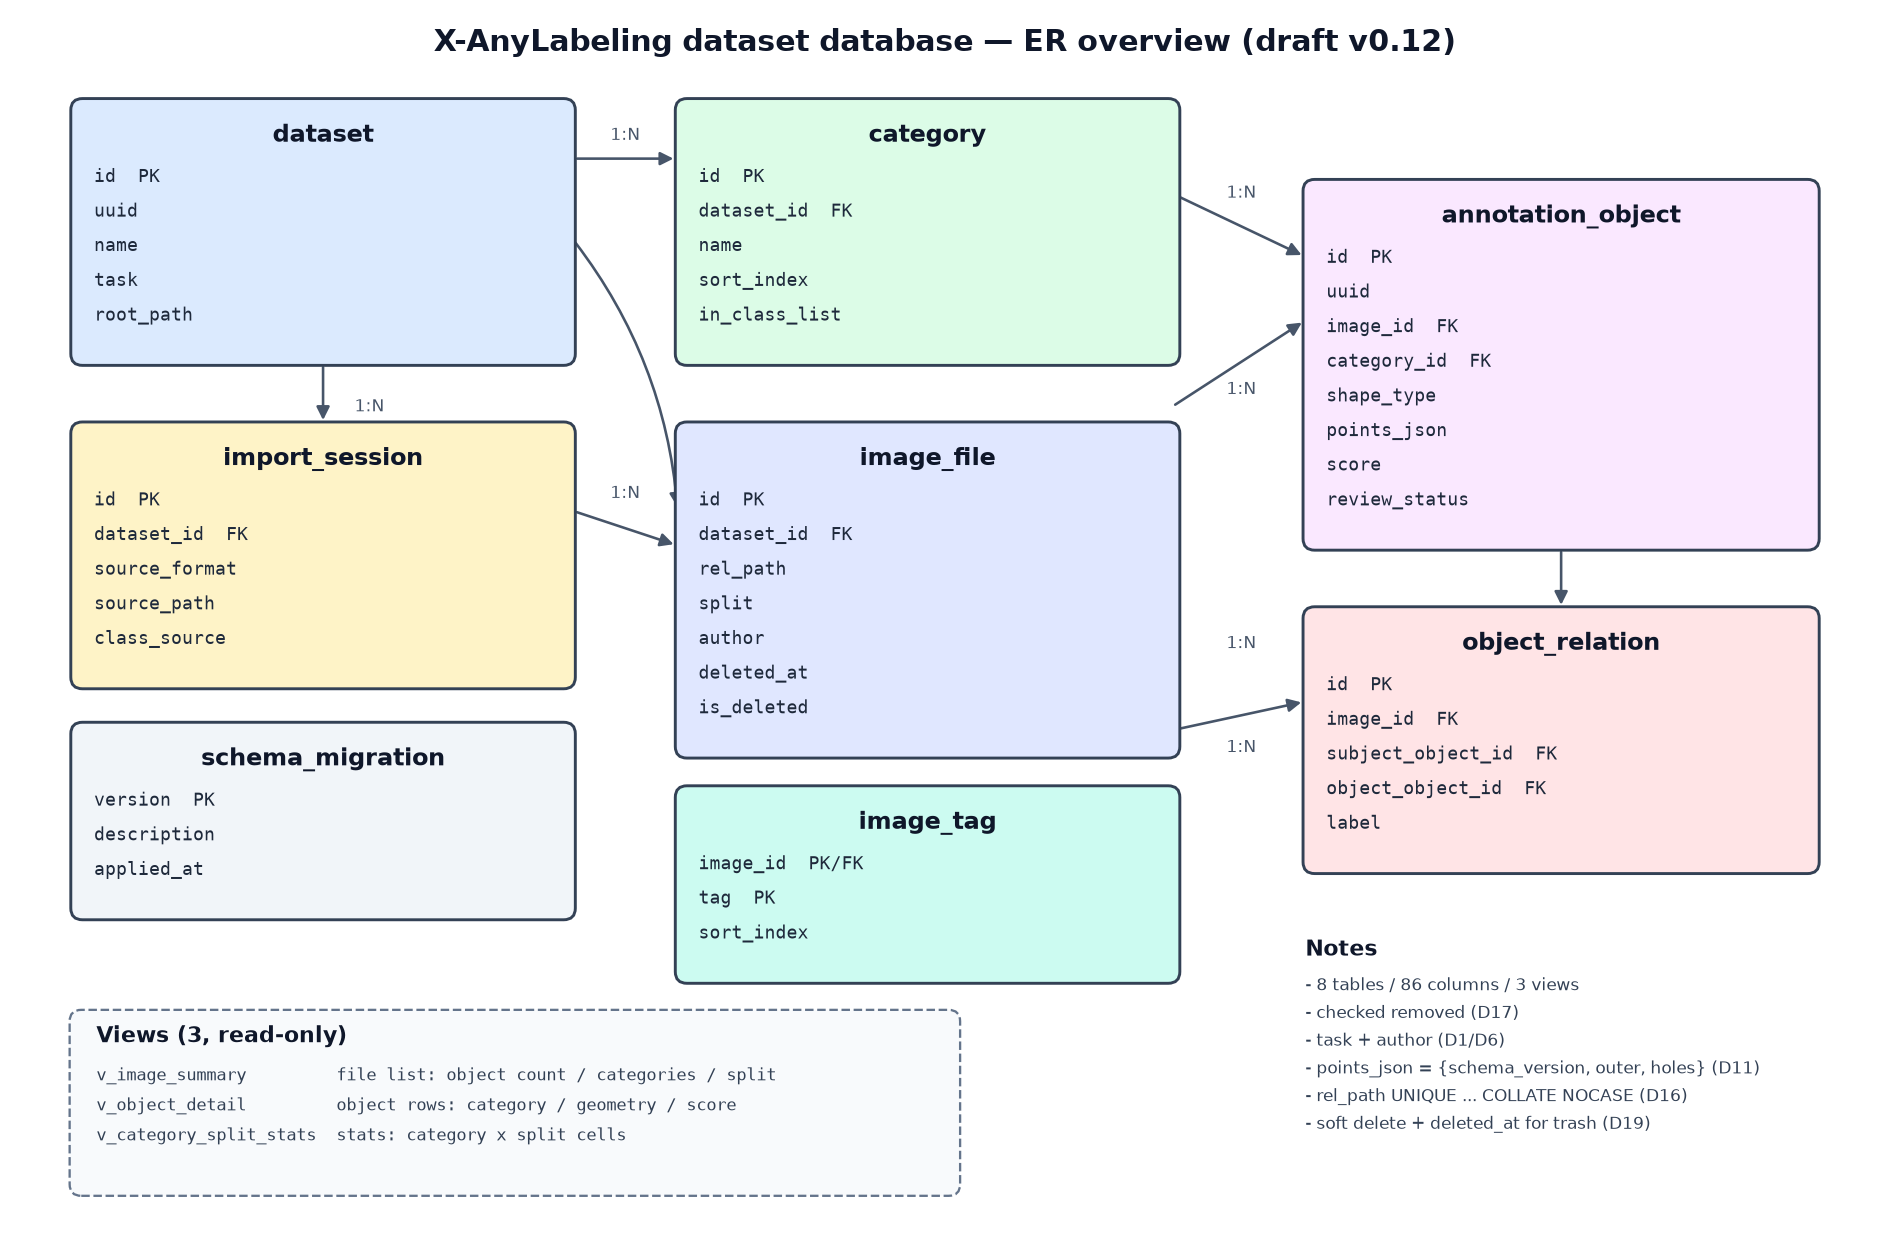
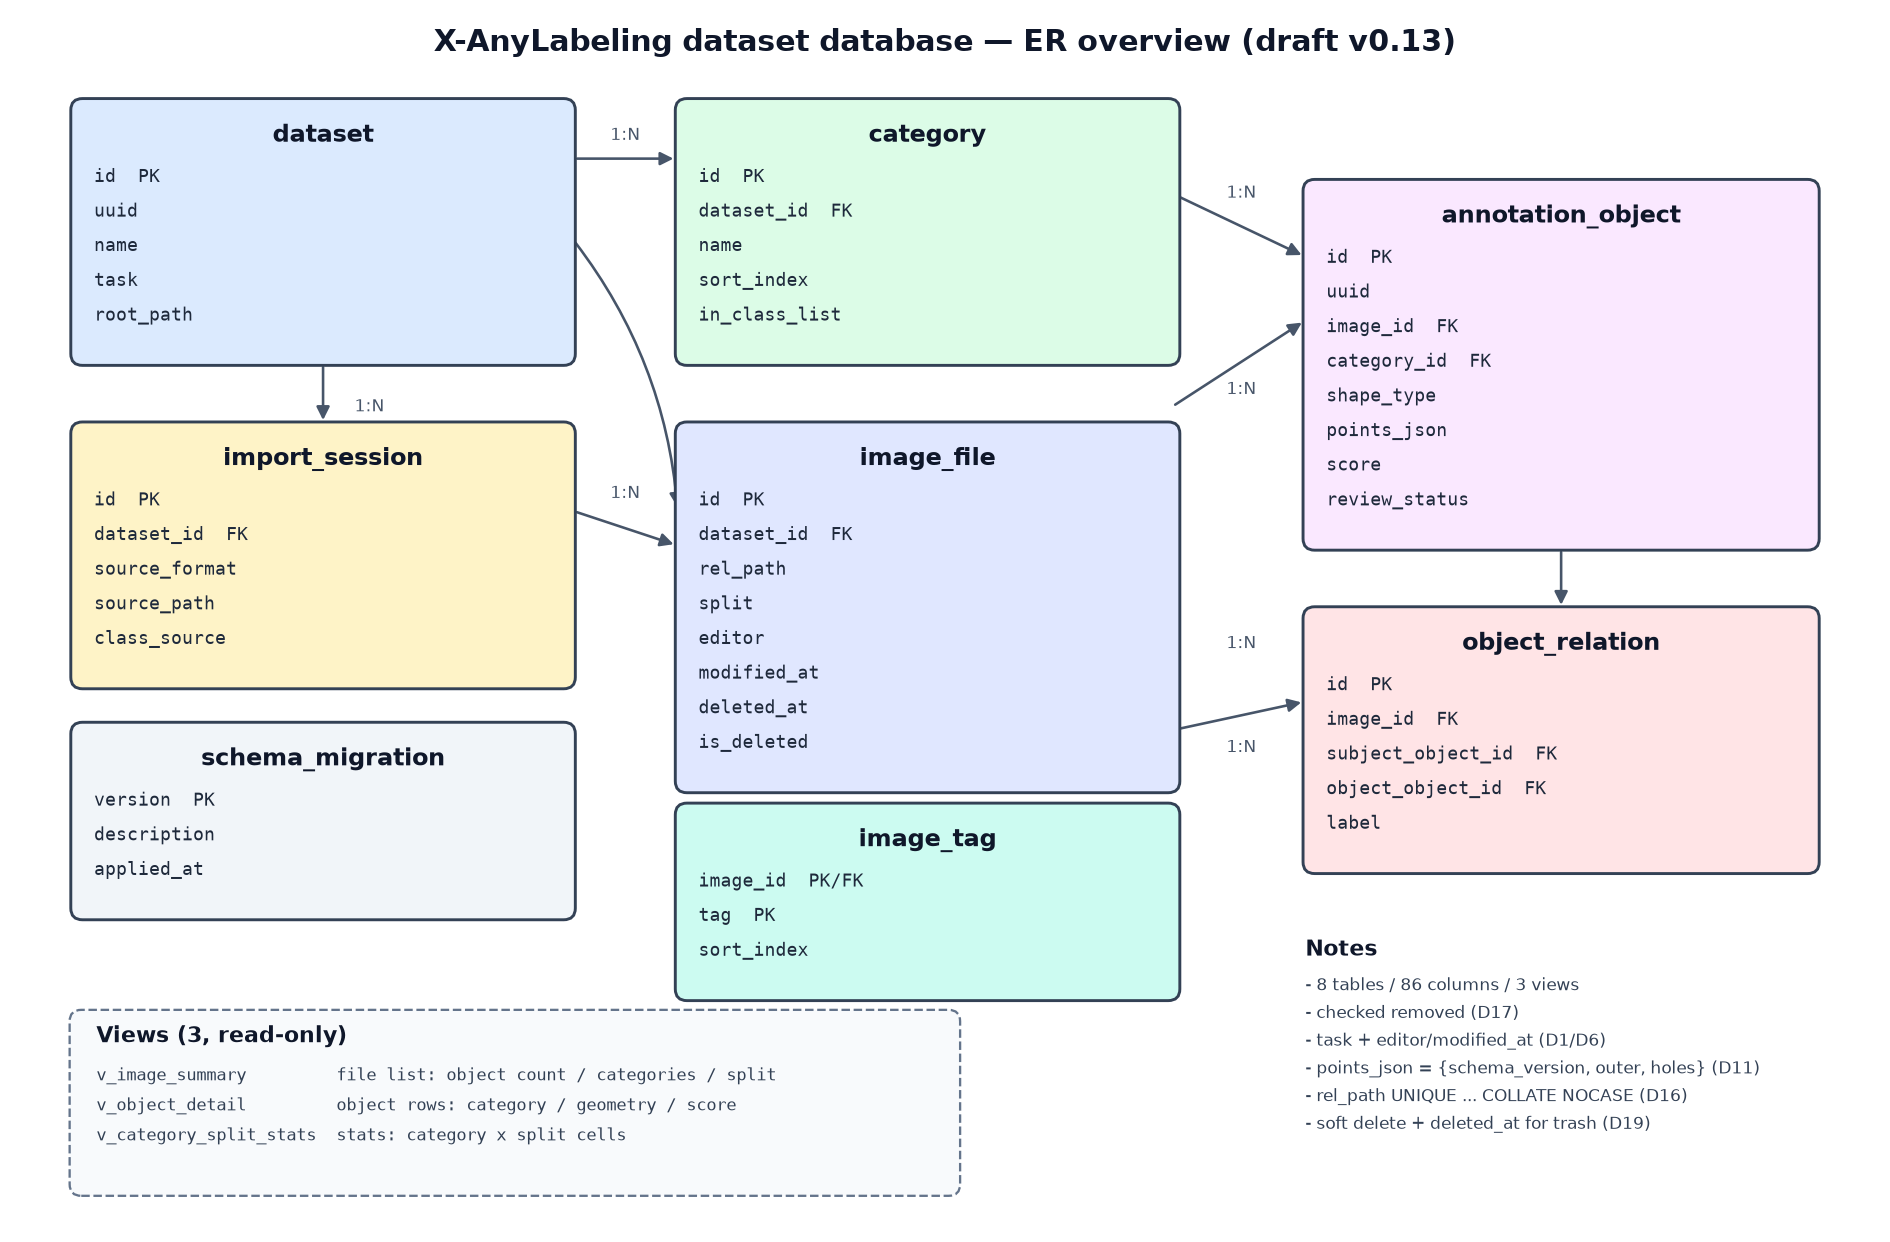
docs(数据库设计): v0.13 归属列统一为 editor/modified_at
背景与原因：
- T6 写的是 editor/last_operator，D6 写的是 author/author_modified_at，同一件事
  三套名字。统一为 editor/modified_at：editor 更准确（最后编辑者，不是作者），
  也与设计书 §3.3/§3.4 的术语一致；modified_at 与 JSON 同名。
- 明确分工：updated_at 只做行级最后写入；modified_at 仅在标注内容/flags/tags/
  description/relations 变化时更新（与 JSON 契约一致）。JSON author → DB editor。

主要修改：
- 文档：D6、§5.3、§12A.3、§13.2、§15.3-B8、§15.4 同步；变更记录补 v0.13；
  §5.3 注明 JSON author 与 DB editor 的映射。
- 开始.md：T6 改为 editor/modified_at，核对 JSON author 与 DB editor 一致；
  §12A 的“一期如需冗余”同步为 editor/modified_at。
- schema.sql：image_file.author → editor，author_modified_at → modified_at；
  D6 注释与 v0.13 头同步。
- demo.db：ALTER TABLE RENAME COLUMN 两列，WAL 已 checkpoint 落盘。
- queries.sql：f.author → f.editor，回收站列表改 editor。
- report.txt：重新生成，列清单与 checks 改为 editor/modified_at。
- db_er_overview.png：按 v0.13 重绘（image_file 显示 editor/modified_at）。

行为、接口与兼容性影响：
- 仅文档与演示资产；不改应用代码、不升 fork 版本、不推送。
- 这是列名改名，不改列数/类型/语义；JSON 契约仍是 author/modified_at。

验证：
- report.txt：8 表 86 列 3 视图；image_file 无 author/author_modified_at；
  editor/modified_at 均在；integrity_check=ok；queries.sql 38/38 通过。
- schema.sql 与 demo.db 列清单逐表一致；D1–D19 / B1–B8 编号连续；
  §15.2 无 Q 行；Markdown 表格列数一致。

已知项：
- demo.db-wal/-shm 为 0 字节且被外部进程占用，未提交；
  demo.db 主文件已 checkpoint，列名已是 editor/modified_at。

Changed region(s): [[0.3434, 0.5201, 0.6243, 0.8261], [0.7492, 0.8261, 0.8429, 0.8567]]

diff --git a/docs/开始.md b/docs/开始.md
@@ -134,7 +134,7 @@
 | T3 | 数据库改造实施与提交：确认计划后分阶段改代码；落地属"用户可观察行为/存储契约变化"，同批升一次 fork 版本并更新 `CHANGELOG-fork.md`、结构报告，验证后 push | 讨论稿 §13/§14 | 代码落地、验证通过、提交并推送 | 待办 |
 | T4 | 训练/评估导出（插件化）：导出功能与任务范围归训练/评估模块，以插件/适配器实现，从数据库读取数据后写出目标框架数据集（不经 JSON 中间文件）；一期 Ultralytics det/seg/obb/pose，其他框架后续扩展 | 讨论稿原第 17 条迁出；契约见讨论稿 §11 | 训练对话框可导出并启动训练；其他框架可按适配器接入 | 待办 |
 | T5 | 项目文件与双击打开：打开文件夹时若没有数据库则自动创建数据库；若没有项目文件则自动创建项目文件；双击项目文件直接打开本软件并加载项目（类似 VS 打开 `.sln`）。**项目文件扩展名已定：`.xalp`**（`.flc` 与 FLIC 动画冲突、`.flp` 与 FL Studio 工程冲突，均不采用）；内容为 JSON 清单（`format_version`/`project_uuid`/`name`/`database` 相对路径/`app_version`/时间戳） | 用户 2026-11-11 需求；扩展名于 2026-11-18 确认；讨论稿 §3 有说明 | 双击 `.xalp` 可打开软件与项目；文件关联可安装/可便携 | 待办 |
-| T6 | 项目数据库接入操作员归属：T3 实施时按讨论稿 §12A 与设计书 §3.4 增加 `editor`/`last_operator` 字段与迁移规则，并核对 JSON `author` 与数据库值一致 | fork.4 归属契约；讨论稿 §12A | schema、迁移、导入契约落地且与 JSON 契约一致 | 待办 |
+| T6 | 项目数据库接入操作员归属：T3 实施时按讨论稿 §12A 与设计书 §3.4 增加 `editor`/`modified_at` 字段与迁移规则，并核对 JSON `author` 与数据库 `editor` 一致 | fork.4 归属契约；讨论稿 §12A | schema、迁移、导入契约落地且与 JSON 契约一致 | 待办 |
 | T7 | 无边框窗口模块实现：按 `docs/dev/无边框窗口模块-讨论稿.md` 的 API 草案实现可复用模块并接入 `MainWindow` | 用户 2026-11-18 需求；讨论稿 v0.4 | 模块可被其他项目复用；本项目窗口 chrome 回归通过；保留启动时原生边框回退 | **已完成（2026-11-18）**：`anylabeling/widgets/frameless/`（8 模块）+ `examples/frameless_demo.py`；`MainWindow` 接入、菜单嵌入/显隐、F11 全屏、`frameless` 启动配置与原生回退；落在 fork.7（`4.3.2+fork.7`）。fork.8 修复 `nativeEvent` 启动崩溃并补回归用例；Windows 实机交互仍待用户验证 |
 | T8 | `label_widget.py` 上帝类拆分：现为约 9500 行、单一 `LabelingWidget` 类，混合窗口装配、动作定义、标注编辑、文件列表、自动标注编排、归属守卫、设置/工具栏等职责；需按职责拆为可独立测试的服务类与控件类（如动作注册、标注数据编排、文件列表/筛选、自动标注交接、算子门禁、工具栏策略），对外行为与快捷键保持不变 | 用户 2026-11-19 提出；结构报告 §5 与"维护重点"多次记录该类为高风险集中点 | 分阶段完成：①先抽出无 UI 依赖的服务（动作表/门禁/工具栏偏好），②再抽文件列表与自动标注交接，③最后瘦身主类；每阶段独立可测、`label_widget.py` 行数与单类职责显著下降，且全套标注功能回归通过 | **已完成（2026-11-19，两个阶段）**：`label_widget.py` 9507 → 1782 行（约 -81%），`LabelingWidget` 9118 → 1703 行、`__init__` 2816 → 238 行；第一阶段拆出 `actions/`（动作表+菜单）、`file_list/`（表格+控制器）、`operator/gate.py`、`auto_labeling_handoff.py`、`widgets/workspace.py`、`widgets/splitters.py`、`utils/label_text.py`、`constants.py`；第二阶段拆出 `annotation_editor.py`、`file_session.py`、`object_editor.py`、`canvas_navigation.py`、`actions/toolbar.py`、`widgets/attributes_panel.py`、`status.py`、`appearance.py`、`label_filters.py`、`shape_commands.py`、`draw_modes.py`、`special_workspaces.py`、`label_loop.py`、`relations.py`、`right_sidebar.py`；对外行为与快捷键不变，属纯内部重构不升 fork 版本（详见 `CHANGELOG-fork.md` fork.19 §7/§8、结构报告 §5.11）。上帝类判定已按用户 2026-11-19 口径收敛：除 `Canvas`（约 6300 行/216 方法）外，1000–2000 行级类不再算上帝类；`label_widget.py` 拆分任务本身至此完成，`Canvas` 拆分未获授权、未登记为待办 |
 
@@ -143,7 +143,7 @@
 
 1. XLABEL JSON 顶层新增可选字段 `author`（操作员名称，或 `"none"` 表示未记录）与 `modified_at`（本机 ISO 8601，含 UTC 偏移）。仅当标注内容、flags、tags、description、relations 实质变化时更新；`checked`、`split` 变化不更新；旧文件、导入/转换数据一律为 `none`，不反推文件时间。字段缺失按未记录处理，旧数据无需迁移。
 2. 操作员账号库是**应用级**存储，位于与 `--work-dir` 无关的系统应用数据目录：Windows `%APPDATA%\X-AnyLabeling\operators\operators.db`，Linux `$XDG_DATA_HOME/X-AnyLabeling/...`（缺省 `~/.local/share`），macOS `~/Library/Application Support/X-AnyLabeling/...`。它随软件/机器走，不是项目数据库，不随项目分发，也不被项目数据库引用；旧路径 `<work_dir>/xanylabeling_data/operators/operators.db` 仅作为首次迁移来源（复制，不删除）。项目数据库不得依赖账号库或登录状态才能打开与标注。
-3. 归属是**数据级**事实，`author` 是 T3 之前的过渡载体。T3 落地时 `annotation_revision.editor` 以名字字符串记录操作者、不建外键；迁移导入原样带入 `author`，不得用当前登录者覆盖；一期如需冗余 `last_operator`，语义必须与 JSON 一致。详见讨论稿 §12A 与设计书 §3.4。
+3. 归属是**数据级**事实，`author` 是 T3 之前的过渡载体。T3 落地时 `annotation_revision.editor` 以名字字符串记录操作者、不建外键；迁移导入原样带入 `author`，不得用当前登录者覆盖；一期如需冗余，统一为 `editor`/`modified_at`，语义必须与 JSON 一致。详见讨论稿 §12A 与设计书 §3.4。
 4. 账号与登录只用于身份记录与操作门禁，**不构成安全边界**，不得在文档或界面中表述为防篡改、防抵赖或权限体系；多租户/复杂权限仍属长期候选（设计书 §2）。
 5. 专项工作区（点云、PPOCR、VQA、图像分类、视频分类）当前不在归属与门禁范围内；扩大范围需单独授权。
 
